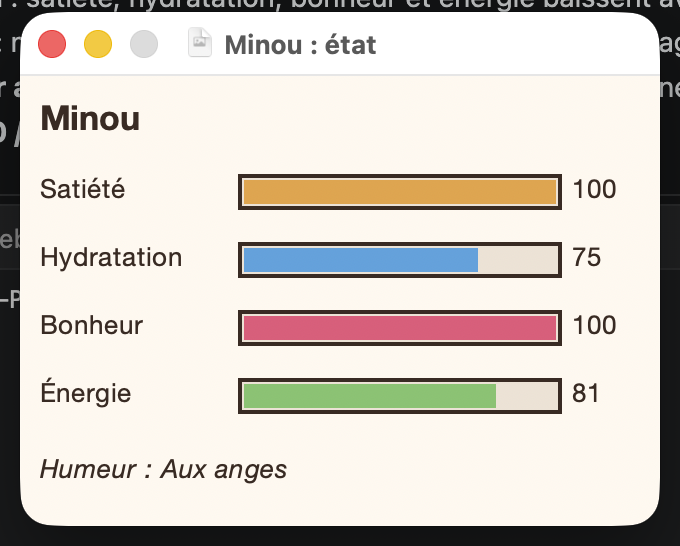
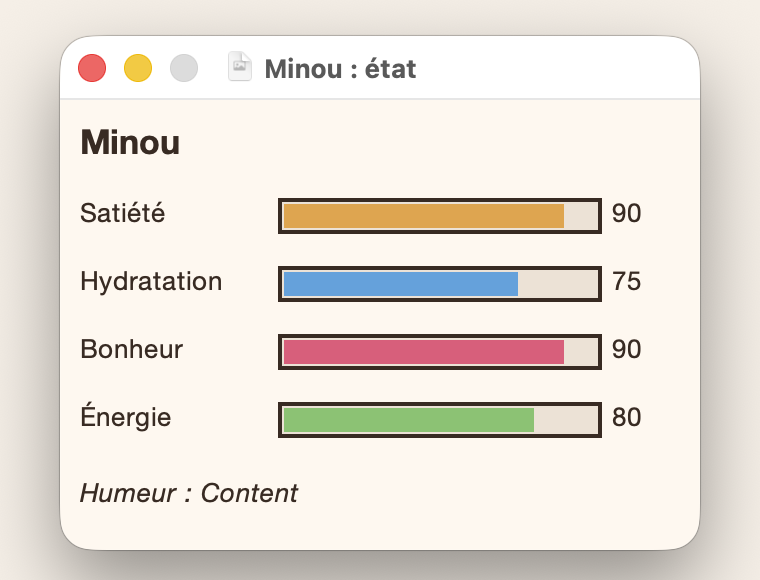
docs: README réorganisé avec des captures du chat seul

diff --git a/README.md b/README.md
@@ -9,6 +9,8 @@
 ![Python](https://img.shields.io/badge/python-3.10%2B-3776AB?logo=python&logoColor=white)
 [![Licence MIT](https://img.shields.io/badge/licence-MIT-green)](LICENSE)
 
+<img src="docs/images/parle.png" alt="Minou, le chat de TamagoChat, qui parle dans une bulle" width="380">
+
 [Installer](#installation) · [Utiliser](#utilisation) · [Développer](#développement) · [Publier](#publier-une-version) · [Serveur](#serveur-optionnel)
 
 </div>
@@ -19,35 +21,46 @@ Minou se promène au-dessus de la barre des tâches (Windows) ou du Dock (macOS)
 nourrit, il parle, chasse les mouches et pique des crises de folie. Avec le serveur optionnel, on peut
 aussi lui envoyer des messages et des bêtises à distance depuis une page web.
 
+## Fonctionnalités
+
 <table>
   <tr>
-    <td><img src="docs/images/parle.png" alt="Le chat parle dans une bulle"></td>
-    <td><img src="docs/images/mouches.png" alt="Le chat chasse une mouche"></td>
-    <td><img src="docs/images/pelote.png" alt="Le chat joue à la pelote"></td>
+    <td width="33%" valign="top">
+      <img src="docs/images/chasse.png" alt="Le chat repère une mouche"><br>
+      <b>Chasseur</b><br>
+      <sub>Des mouches apparaissent de temps en temps : il les traque et bondit pour les gober.</sub>
+    </td>
+    <td width="33%" valign="top">
+      <img src="docs/images/pelote.png" alt="Le chat poursuit sa pelote"><br>
+      <b>Joueur</b><br>
+      <sub>Pelote, crises de folie, grands sauts : il court partout, d'un écran à l'autre.</sub>
+    </td>
+    <td width="33%" valign="top">
+      <img src="docs/images/caresse.png" alt="Le chat ronronne sous les caresses"><br>
+      <b>Câlin</b><br>
+      <sub>Un clic pour le caresser ; il réagit, et finit par réclamer un peu d'espace.</sub>
+    </td>
   </tr>
   <tr>
-    <td align="center">Il parle</td>
-    <td align="center">Il chasse les mouches</td>
-    <td align="center">Il joue à la pelote</td>
-  </tr>
-  <tr>
-    <td><img src="docs/images/mange.png" alt="Le chat mange"></td>
-    <td><img src="docs/images/dodo.png" alt="Le chat fait la sieste"></td>
-    <td><img src="docs/images/etat.png" alt="Fenêtre d'état du chat"></td>
-  </tr>
-  <tr>
-    <td align="center">Il mange</td>
-    <td align="center">Il fait la sieste</td>
-    <td align="center">Ses jauges</td>
+    <td width="33%" valign="top">
+      <img src="docs/images/repas.png" alt="Le chat mange dans sa gamelle"><br>
+      <b>Gourmand</b><br>
+      <sub>Il faut le nourrir et lui donner à boire, sinon il le fait savoir.</sub>
+    </td>
+    <td width="33%" valign="top">
+      <img src="docs/images/sieste.png" alt="Le chat fait la sieste"><br>
+      <b>Dormeur</b><br>
+      <sub>Quand il est fatigué, il fait une sieste pour recharger son énergie.</sub>
+    </td>
+    <td width="33%" valign="top">
+      <img src="docs/images/etat.png" alt="La fenêtre d'état avec ses quatre jauges"><br>
+      <b>Tamagotchi</b><br>
+      <sub>Satiété, hydratation, bonheur et énergie baissent avec le temps. Il ne meurt jamais, il devient juste grognon.</sub>
+    </td>
   </tr>
 </table>
 
-## Fonctionnalités
-
-- **Vivant** : il marche, dort, joue à la pelote, bondit sur les mouches, passe d'un écran à l'autre
-- **Bavard** : des phrases pour chaque situation (faim, sieste, caresse, matin…), toutes modifiables
-- **Tamagotchi** : satiété, hydratation, bonheur et énergie baissent avec le temps (il ne meurt jamais,
-  il devient juste grognon)
+- **Bavard** : des phrases pour chaque situation (faim, sieste, matin…), toutes modifiables
 - **À distance** : messages, soins, bêtises et réglages depuis une page admin protégée
 - **Mises à jour automatiques et signées** : un chat n'installe qu'une version signée par votre clé
 - **Windows 10 / 11 et macOS**, un ou plusieurs écrans
